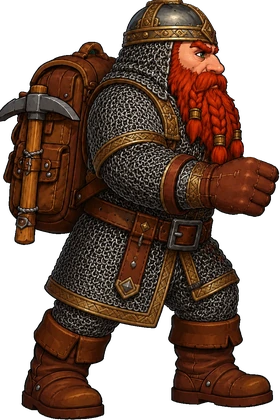
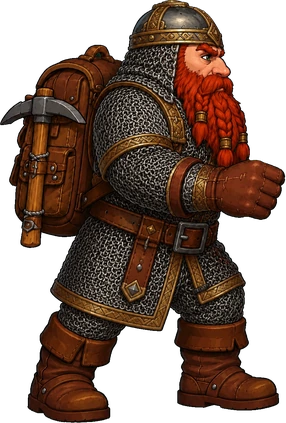
[visuel] Le sac du croisé n'est plus coupé : les planches peuvent déborder
Une planche d'armure était rognée au gabarit du nain par défaut. Le croisé
à une main y perdait ~12 px de sac à dos, pioche comprise.

Une illustration ne doit jamais être coupée sur un bord. Le cadre de
référence reste le gabarit (c'est lui qui garantit que l'arme tombe dans
le poing), mais l'image a le droit d'être plus grande : elle déclare ses
marges et le jeu dessine l'image entière autour du gabarit. Le personnage
ne bouge pas d'un pixel, l'arme non plus.

outils/caler_planche_heros.py calcule ces marges tout seul et imprime la
ligne à recopier — rien à mesurer à la main. Les quatre planches (mailles
et croisé) ont été régénérées. La tête du héros dans le dérouleur de tours
suit aussi les marges, sinon on cadrait à côté du visage.

Claude-Session: https://claude.ai/code/session_01AZD9AfytCUWGMcS4VfpH7V

diff --git a/outils/caler_planche_heros.py b/outils/caler_planche_heros.py
@@ -37,6 +37,7 @@ Ensuite : déclarer la paire dans PLANCHES_SET (jeu/ui/combat.js).
 import argparse
 import sys
 from collections import deque
+from math import ceil
 
 import numpy as np
 from PIL import Image
@@ -118,7 +119,15 @@ def reperes(im):
 
 
 def caler(im, pose):
-    """Place le personnage dans le gabarit de la pose. Renvoie (image, échelle, débordements)."""
+    """Place le personnage dans le gabarit de la pose.
+
+    Renvoie (image, échelle, marges). Le personnage n'est JAMAIS rogné : si le
+    dessin déborde du gabarit (un sac à dos plus large, un heaume plus haut), la
+    planche est AGRANDIE d'autant et les MARGES ajoutées sont renvoyées, en px de
+    gabarit. Le jeu s'en sert pour dessiner l'image entière tout en gardant le
+    personnage exactement au même endroit (cf. PLANCHES_SET dans ui/combat.js).
+    Marge du BAS : jamais — le bas de l'image EST la ligne de sol.
+    """
     P = POSES[pose]
     Wc, Hc = P["gabarit"][0] * ZOOM, P["gabarit"][1] * ZOOM
     m = reperes(im)
@@ -131,17 +140,15 @@ def caler(im, pose):
     ty = Hc - (m["pieds"] + 1) * s
 
     red = im.resize((max(1, round(im.width * s)), max(1, round(im.height * s))), Image.LANCZOS)
-    out = Image.new("RGBA", (Wc, Hc), (0, 0, 0, 0))
-    out.alpha_composite(red, (round(tx), round(ty)))
-
-    deb = []
-    if tx + m["x0"] * s < -0.5:
-        deb.append(f"{abs(tx + m['x0'] * s):.0f} px à gauche")
-    if tx + m["x1"] * s > Wc + 0.5:
-        deb.append(f"{tx + m['x1'] * s - Wc:.0f} px à droite")
-    if ty + m["y0"] * s < -0.5:
-        deb.append(f"{abs(ty + m['y0'] * s):.0f} px en haut")
-    return out, s, deb
+    # Ce qui sort du gabarit devient une MARGE (px de sortie), jamais un rognage.
+    # Tolérance d'un demi-pixel : l'échelle n'est jamais RIGOUREUSEMENT ronde, et
+    # sans ça une planche par défaut se verrait attribuer une marge de 1 px fantôme.
+    mg = max(0, ceil(-(tx + m["x0"] * s) - 0.5))
+    md = max(0, ceil(tx + (m["x1"] + 1) * s - Wc - 0.5))
+    mh = max(0, ceil(-(ty + m["y0"] * s) - 0.5))
+    out = Image.new("RGBA", (Wc + mg + md, Hc + mh), (0, 0, 0, 0))
+    out.alpha_composite(red, (round(tx) + mg, round(ty) + mh))
+    return out, s, dict(g=mg / ZOOM, d=md / ZOOM, h=mh / ZOOM)
 
 
 def verifier():
@@ -149,13 +156,20 @@ def verifier():
     ok = True
     for pose, P in POSES.items():
         im = Image.open(P["defaut"]).convert("RGBA")
-        _, s, deb = caler(im, pose)
-        bon = abs(s - ZOOM) < 0.01 and not deb
+        _, s, mar = caler(im, pose)
+        bon = abs(s - ZOOM) < 0.01 and not any(mar.values())
         ok &= bon
-        print(f"  pose {pose} : échelle {s:.4f} (attendu {ZOOM})"
-              f"{'  débordement : ' + ', '.join(deb) if deb else ''}"
+        print(f"  pose {pose} : échelle {s:.4f} (attendu {ZOOM}), marges {fmt_marge(mar)}"
               f"   → {'OK' if bon else 'ÉCHEC'}")
     return ok
+
+
+def fmt_marge(mar):
+    """La marge telle qu'on la recopie dans PLANCHES_SET (jeu/ui/combat.js)."""
+    utile = {k: round(v, 1) for k, v in mar.items() if v}
+    if not utile:
+        return "aucune"
+    return "{ " + ", ".join(f"{k}: {v}" for k, v in utile.items()) + " }"
 
 
 def main():
@@ -177,13 +191,10 @@ def main():
         ap.error("il faut source, pose et -o (ou --verifier)")
 
     im = detourer(args.source)
-    out, s, deb = caler(im, args.pose)
+    out, s, mar = caler(im, args.pose)
     out.save(args.sortie, "WEBP", quality=92, method=6)
     print(f"{args.sortie} : {out.size[0]}×{out.size[1]}, échelle {s:.4f}")
-    if deb:
-        print("  ⚠ le dessin déborde du gabarit et sera rogné : " + ", ".join(deb))
-        print("    (le personnage est plus large que la planche par défaut à cet endroit ;")
-        print("     redessiner un peu plus serré si le rognage se voit en jeu)")
+    print(f"  marge à déclarer dans PLANCHES_SET : {fmt_marge(mar)}")
 
 
 if __name__ == "__main__":

diff --git a/docs/concept.md b/docs/concept.md
@@ -1090,13 +1090,13 @@ Deux planches par set — pose **1 main** (`…-1.webp`) et pose **2 mains**
 (`…-2.webp`) — exactement comme les planches par défaut `nain-combat*.png`.
 
 **⚠ Le CALAGE des planches n'est pas optionnel.** `ui/combat.js` dessine le héros
-dans un cadre dont la HAUTEUR est fixe et la LARGEUR suit le ratio de l'image
-(le nain est centré dessus) ; le BAS de l'image est la ligne de SOL ; et le skin
-d'arme pose la prise à une **fraction (fx, fy) du cadre**. Une planche mal calée
-met donc l'arme à côté de la main. D'où trois règles :
-1. **même ratio** largeur/hauteur que la planche par défaut de la pose ;
-2. **pieds au bas** de l'image ;
-3. **poing à la même fraction** du cadre.
+dans un **gabarit** de taille fixe (140×210 à une main, 170×210 à deux) : le nain
+est centré dessus, le BAS du gabarit est la ligne de SOL, et le skin d'arme pose
+la prise à une **fraction (fx, fy) du gabarit**. Une planche mal calée met donc
+l'arme à côté de la main. D'où trois règles :
+1. **même gabarit** que la planche par défaut de la pose ;
+2. **pieds au bas** du gabarit ;
+3. **poing à la même fraction** du gabarit.
 
 C'est ce que fait `outils/caler_planche_heros.py` (détourage du fond vert +
 calage + export .webp ≈50 Ko). Les trois règles donnent trois équations pour
@@ -1107,8 +1107,14 @@ Les originaux fond vert restent dans `images/heros/sources-armures/`.
 **Pour voir le résultat sans jouer** : `outils/test-armures.html` lance un combat
 directement avec l'armure et l'arme choisies dans deux menus déroulants.
 
-Une planche plus large que le gabarit est **rognée** sur les bords (l'outil le
-signale) : c'est le cas du croisé 1 main, dont le sac à dos perd ~12 px à gauche.
+**Une illustration n'est JAMAIS rognée** (27/07/2026). Une armure peut déborder du
+gabarit — un sac à dos plus large, un heaume plus haut. Dans ce cas l'image est
+plus GRANDE que le gabarit, et la planche déclare de combien via `marge`
+(`{ g, d, h }`, en px de gabarit ; jamais de marge en bas, le bas EST le sol).
+Le jeu dessine alors l'image entière AUTOUR du gabarit : le personnage ne bouge
+pas d'un pixel et l'arme tombe toujours dans le poing. Le script calcule ces
+marges et imprime la ligne à recopier dans `PLANCHES_SET` — il n'y a rien à
+mesurer à la main. (Avant ça, le croisé 1 main perdait ~12 px de sac à gauche.)
 
 **Note technique** : l'échelle de l'arme se rapporte à `H_REF_PLANCHE_HEROS`
 (210 px, la hauteur des planches par défaut) et **non** à la hauteur native de la
